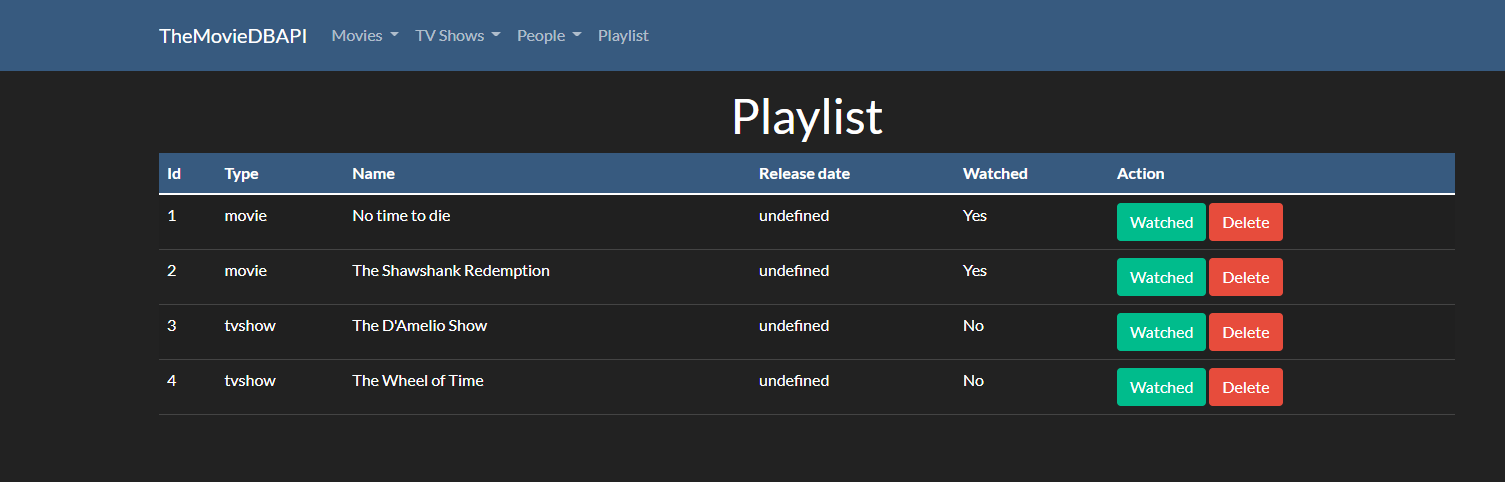
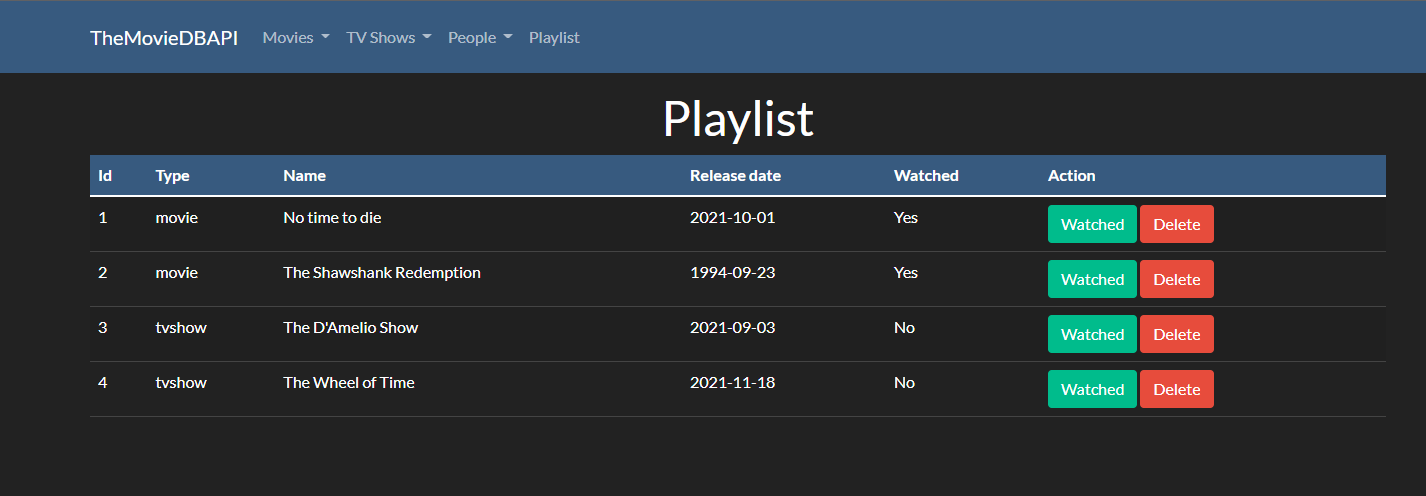
repair playlist

diff --git a/src/Entity/Playlist.php b/src/Entity/Playlist.php
@@ -30,7 +30,7 @@ class Playlist
     /**
      * @ORM\Column(type="string", length=12)
      */
-    private $release_date;
+    private $releasedate;
 
     /**
      * @ORM\Column(type="boolean")
@@ -45,7 +45,7 @@ class Playlist
     /**
      * @ORM\Column(type="datetime", options={"default": "CURRENT_TIMESTAMP"})
      */
-    private $created_at;
+    private $createdat;
 
     public function __construct()
     {
@@ -79,12 +79,12 @@ class Playlist
 
     public function getReleaseDate()
     {
-        return $this->release_date;
+        return $this->releasedate;
     }
 
-    public function setReleaseDate($release_date)
+    public function setReleaseDate($releasedate)
     {
-        $this->release_date = $release_date;
+        $this->releasedate = $releasedate;
     }
 
     public function getDeleted()
@@ -109,6 +109,6 @@ class Playlist
 
     public function getCreatedAt()
     {
-        return $this->created_at;
+        return $this->createdat;
     }
 }
